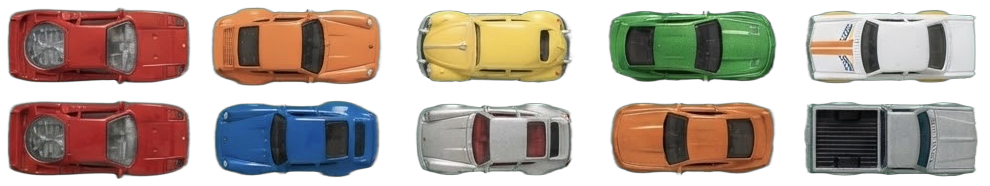
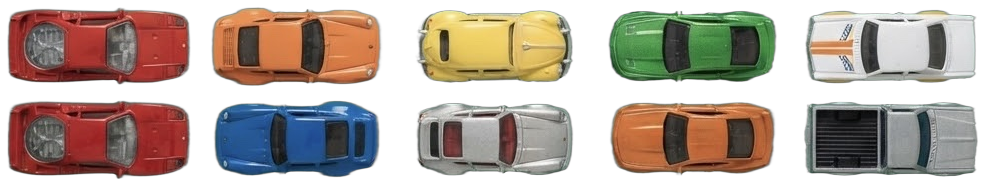
Flip gray, green, and yellow cars to face the house (Sürüm 20).
Verified against in-game screenshots where all three pointed away from the rings.

Changed region(s): [[0.6061, 0.0538, 0.7879, 0.457], [0.3939, 0.5376, 0.5758, 0.9409], [0.3939, 0.0538, 0.5758, 0.457]]

diff --git a/index.html b/index.html
@@ -488,7 +488,7 @@
     <section class="panel" id="menu">
       <div class="card">
         <h1>Halka Arabaları</h1>
-        <p id="build-tag" style="margin:0 0 8px;font-size:13px;font-weight:800;color:#f0a202;">Sürüm 19 · Menü sayfaları</p>
+        <p id="build-tag" style="margin:0 0 8px;font-size:13px;font-weight:800;color:#f0a202;">Sürüm 20 · Menü sayfaları</p>
         <p style="margin:0 0 8px;font-size:14px;">Çek-bırak, halkaya dur, botu yen. Oyunda Menü ile geri dön.</p>
         <p id="menu-best"></p>
         <div class="menu-entries">
@@ -638,7 +638,7 @@
     let CAR_COUNT = PLAYER_COLORS.length;
     function carFileUrl(i) {
       const file = (ATLAS && ATLAS.cars[i] && ATLAS.cars[i].file) ? ATLAS.cars[i].file : ("car_" + String(i).padStart(2, "0") + ".png");
-      return "cars/" + file + "?v=19";
+      return "cars/" + file + "?v=20";
     }
     function punchCrop(img) {
       const w = img.naturalWidth;
@@ -685,12 +685,12 @@
         carSheets[i] = sheet;
         if (i === 0) carSheets[2] = sheet;
       };
-      im.src = src + "?v=19";
+      im.src = src + "?v=20";
     });
     function loadCarImages(meta) {
       carImages = meta.cars.map((c, i) => {
         const im = new Image();
-        im.src = "cars/" + (c.file || ("car_" + String(i).padStart(2, "0") + ".png")) + "?v=19";
+        im.src = "cars/" + (c.file || ("car_" + String(i).padStart(2, "0") + ".png")) + "?v=20";
         return im;
       });
     }
@@ -707,13 +707,13 @@
       refreshMenuBest();
       if (state === "collection") renderCollection();
     }
-    fetch("cars/atlas.json?v=19")
+    fetch("cars/atlas.json?v=20")
       .then((r) => r.json())
       .then((meta) => new Promise((resolve, reject) => {
         const img = new Image();
         img.onload = () => resolve({ meta, img });
         img.onerror = reject;
-        img.src = "cars/atlas.png?v=19";
+        img.src = "cars/atlas.png?v=20";
       }))
       .then(({ meta, img }) => applyAtlas(meta, img))
       .catch(() => { /* atlas yoksa renk yedekleri kalır */ });
